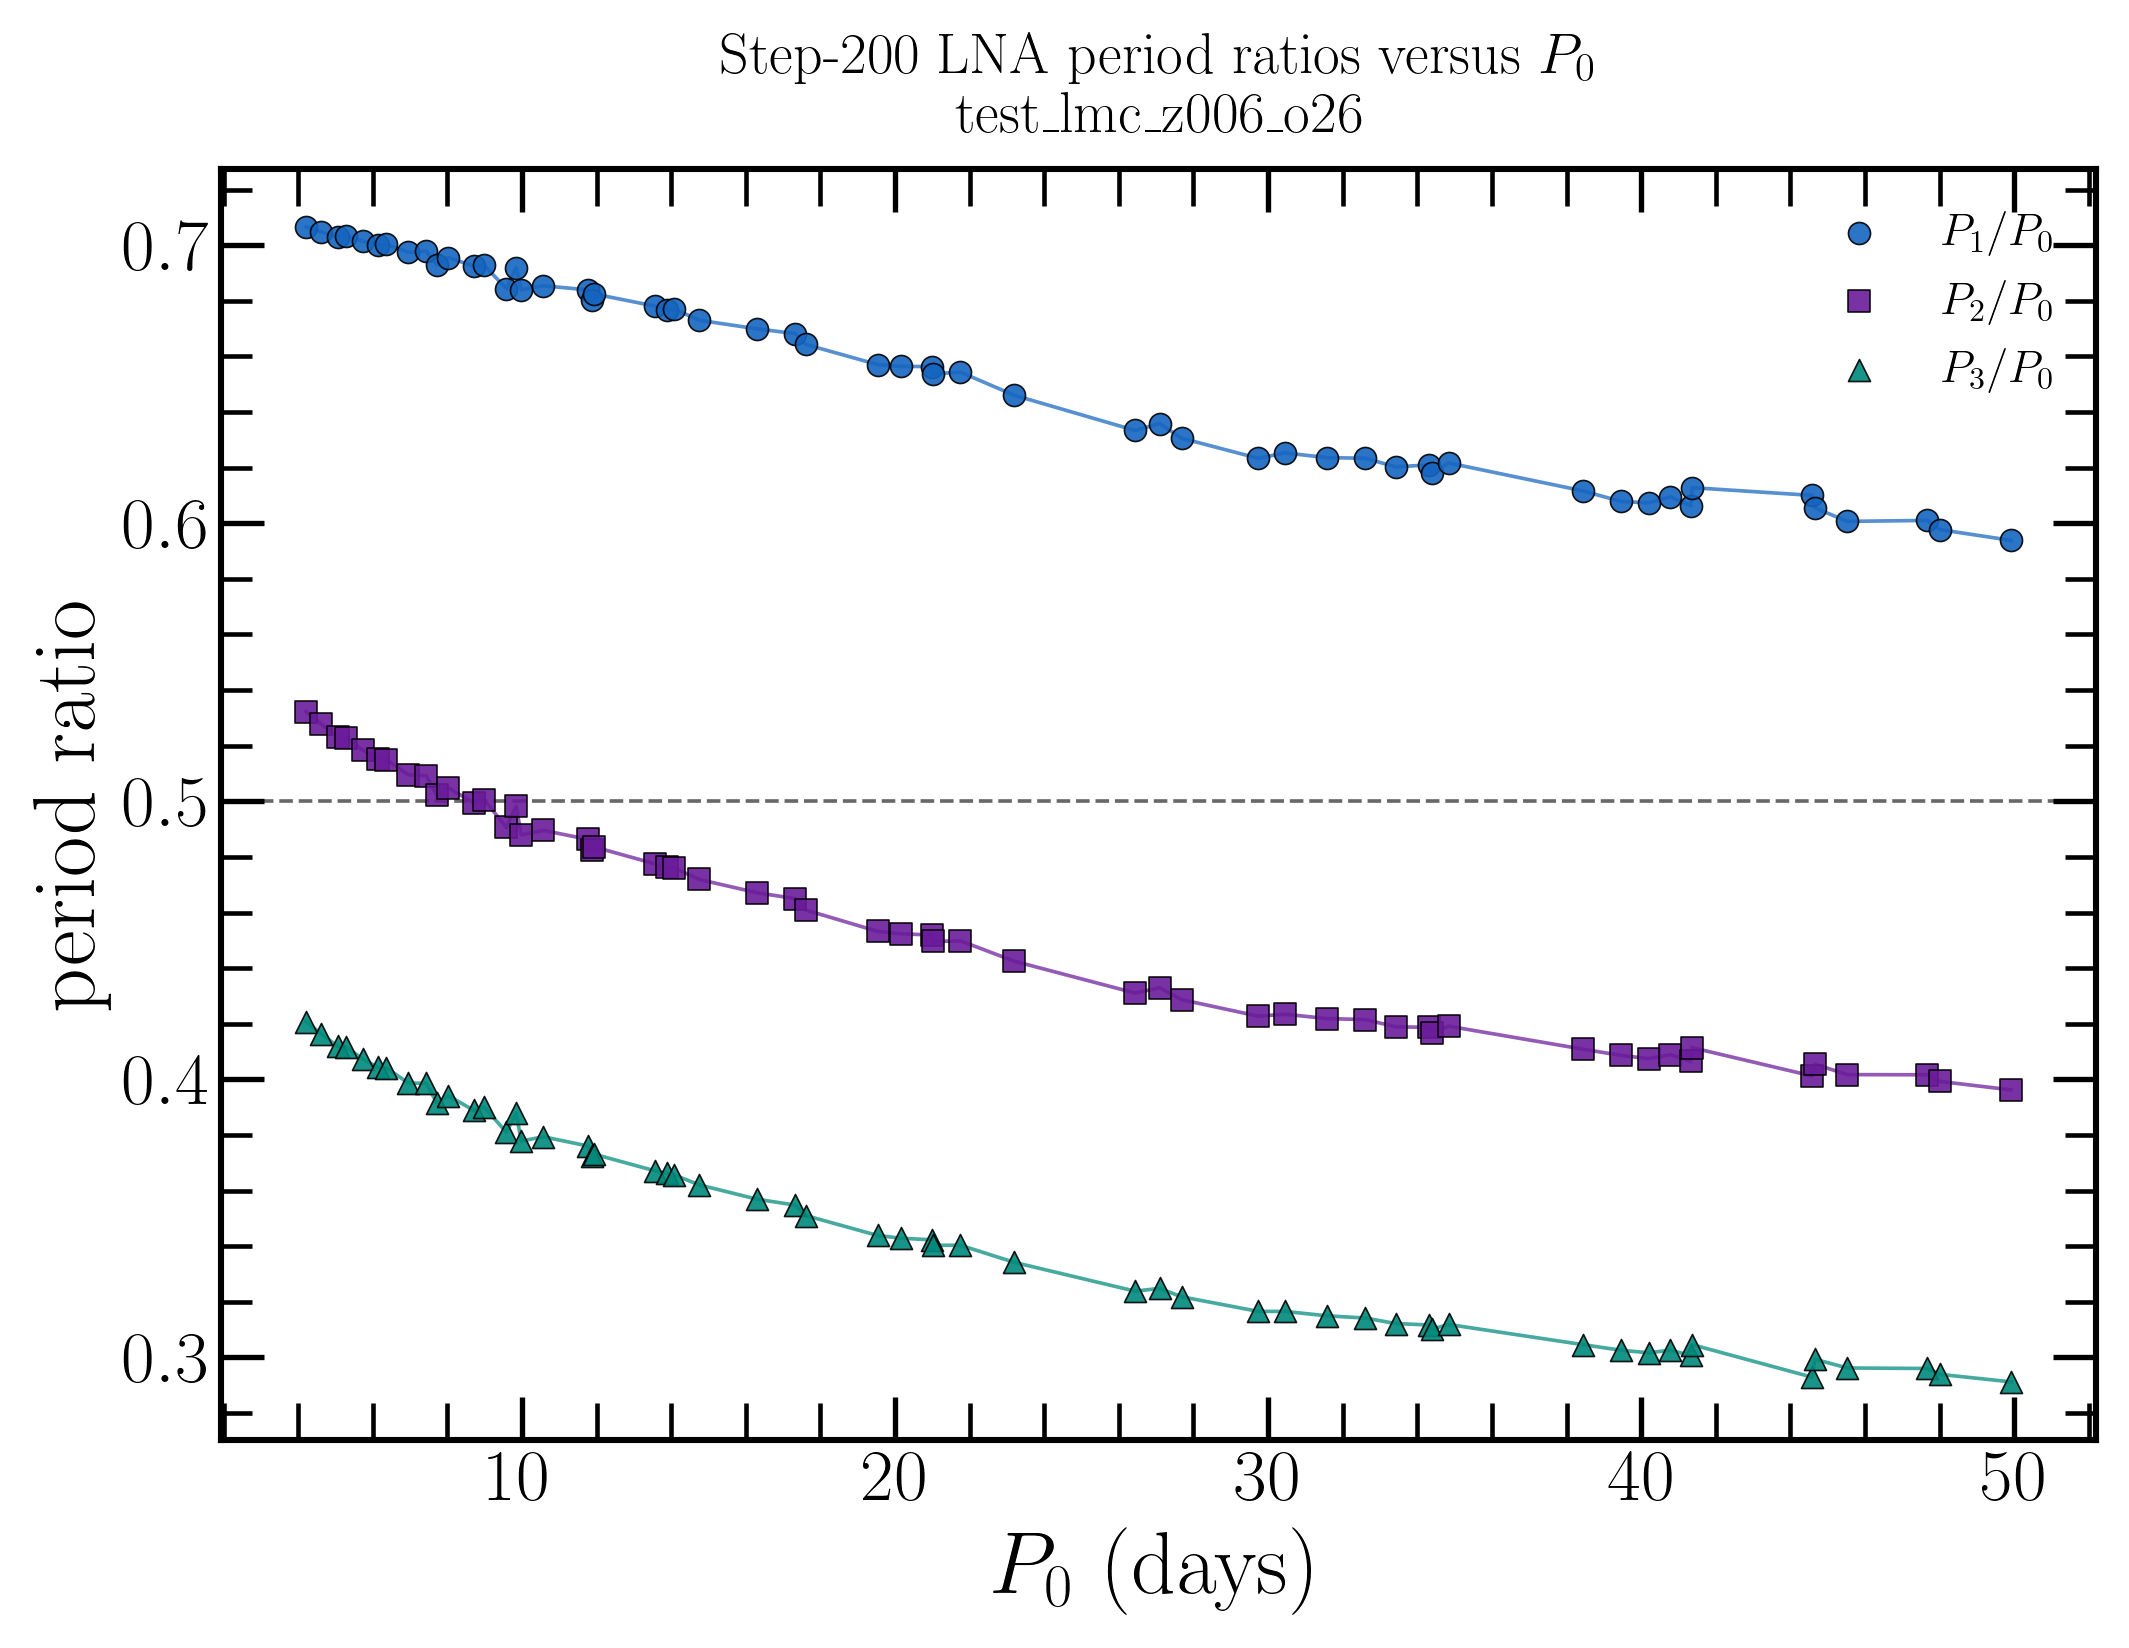
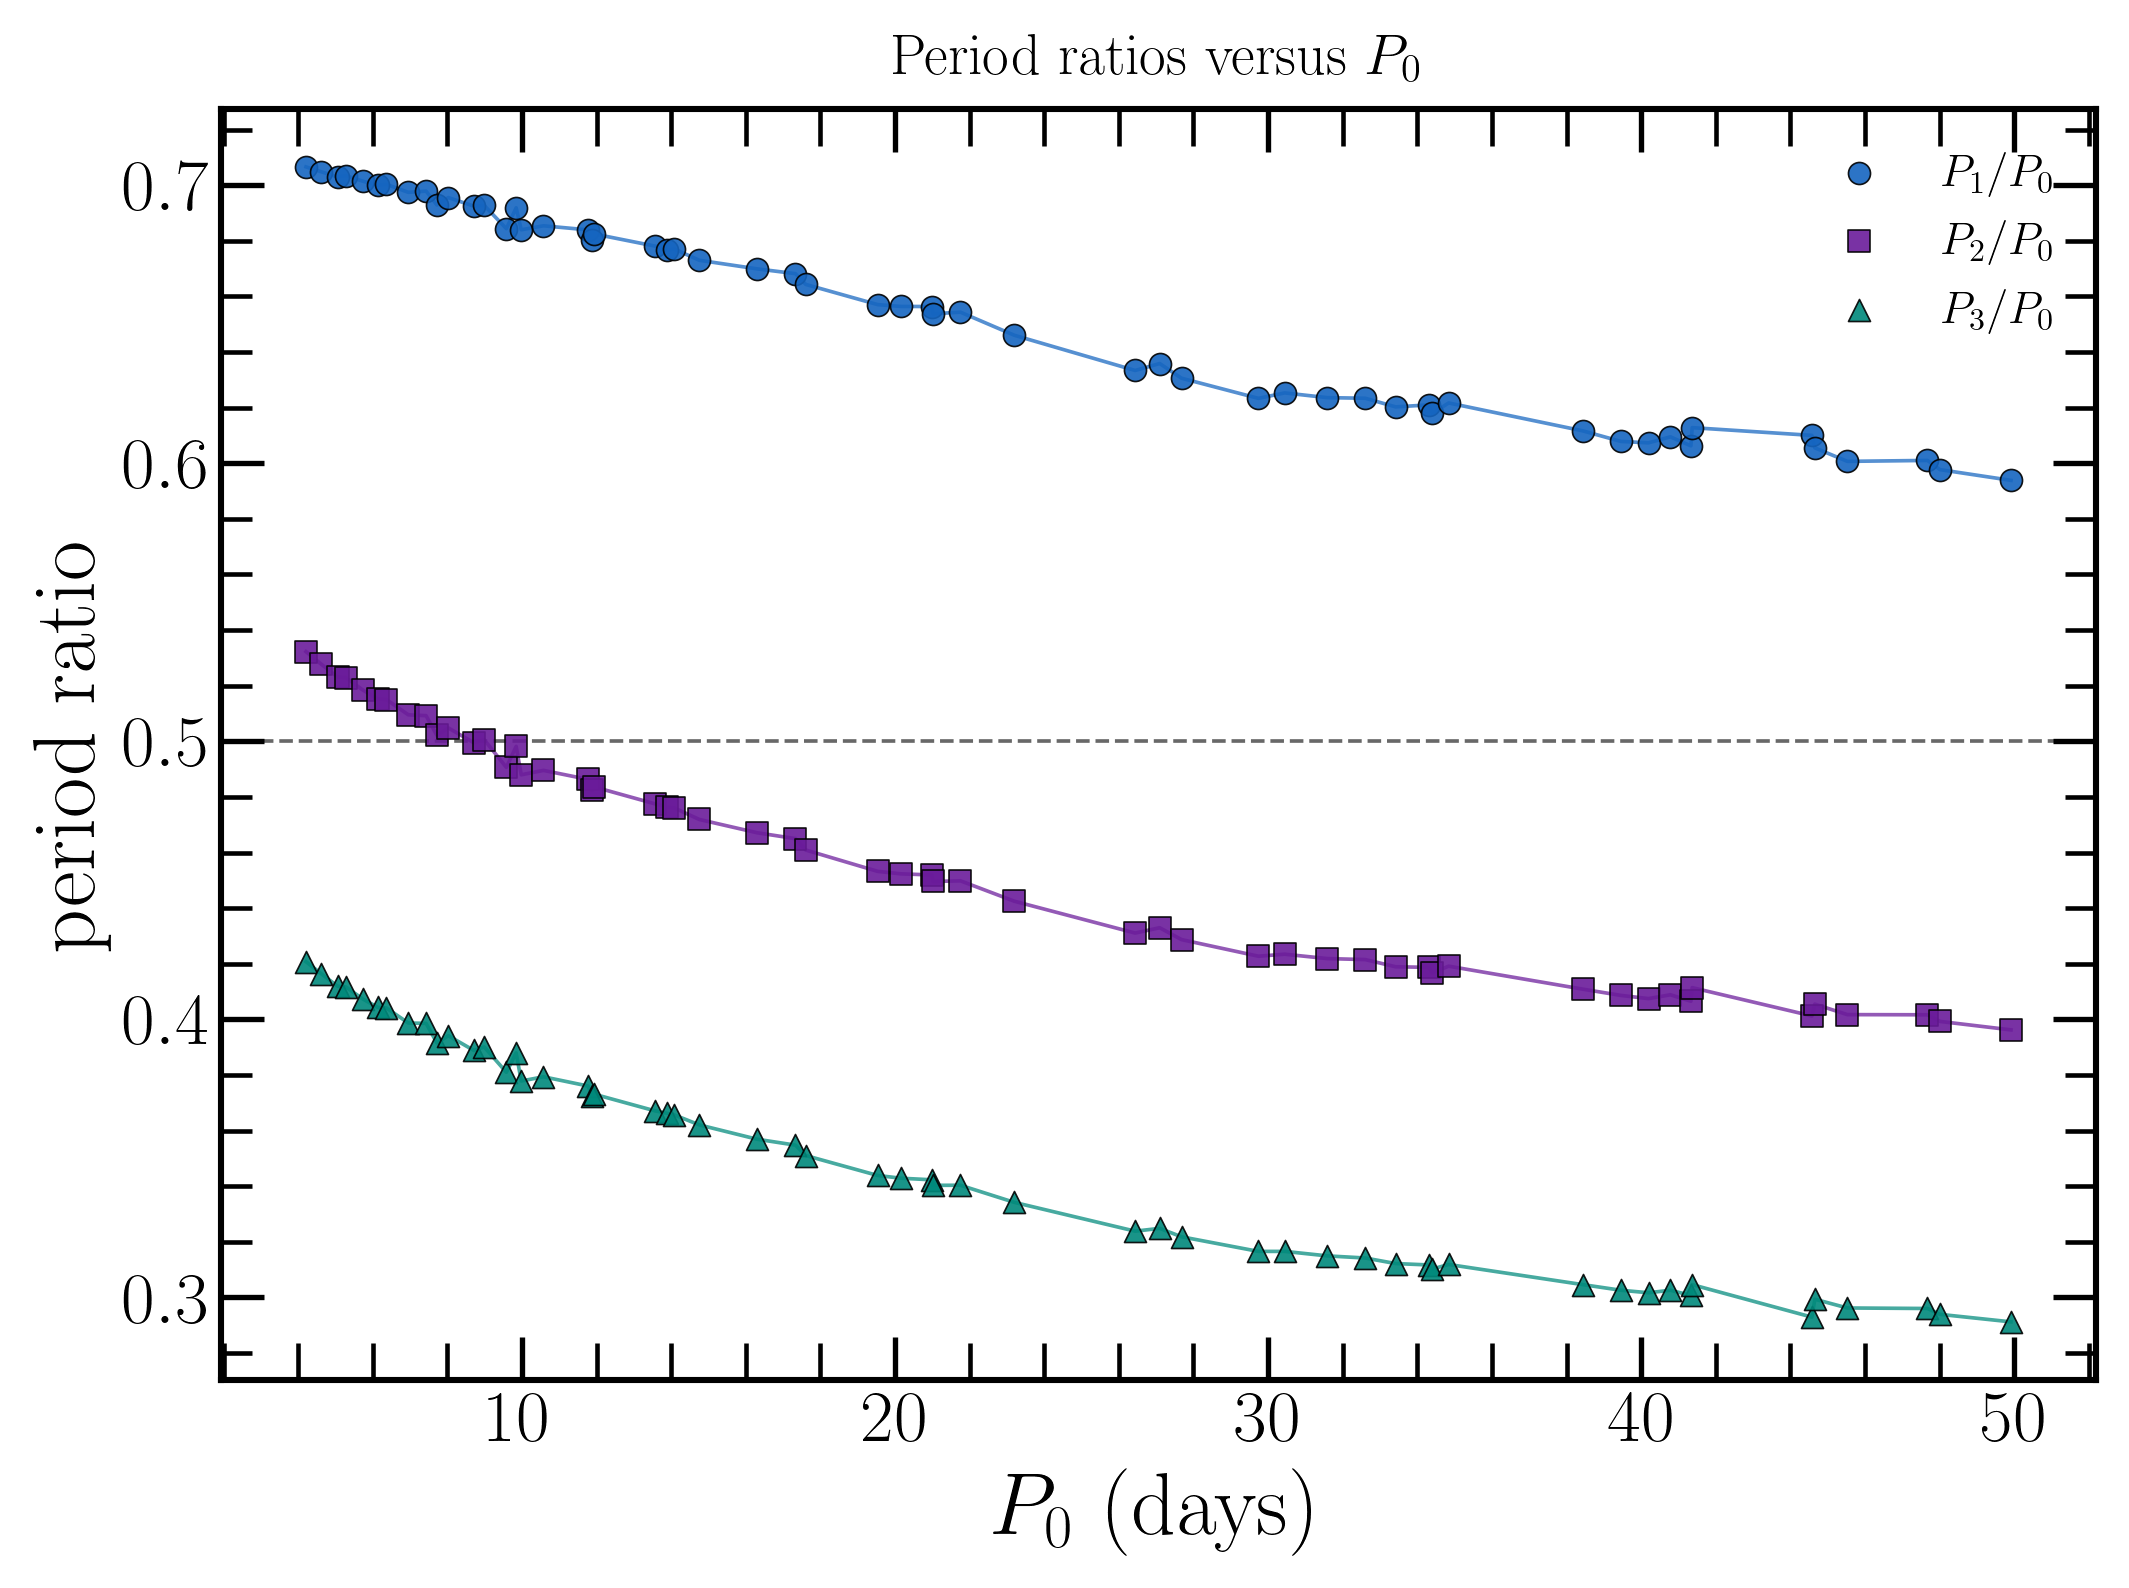
Update Lab 3 period-ratio figure title

diff --git a/content/friday/lab-3.md b/content/friday/lab-3.md
@@ -23,7 +23,7 @@ $$
 
 The linear nonadiabatic (LNA) plot below shows the overtone period ratios as a function of the fundamental mode period, $P_0$. It shows why this ratio is useful: the second overtone ratio, $P_2/P_0$, passes through the resonance range near the periods where bump Cepheids become most morphologically interesting.
 
-![Linear period ratios for the selected nonlinear Cepheid grid](../plots/lab3/04_period_ratios_step200_lna_test_lmc_z006_o26.png)
+![Linear period ratios for the selected nonlinear Cepheid grid](../plots/lab3/03_period_ratios_step200_lna_test_lmc_z006_o26.png)
 
 As the stellar structure changes across the instability strip, the bump shifts from the descending branch, through the middle of the cycle, and onto the rising branch. In this lab, you will see that progression directly in nonlinear MESA models.
 
